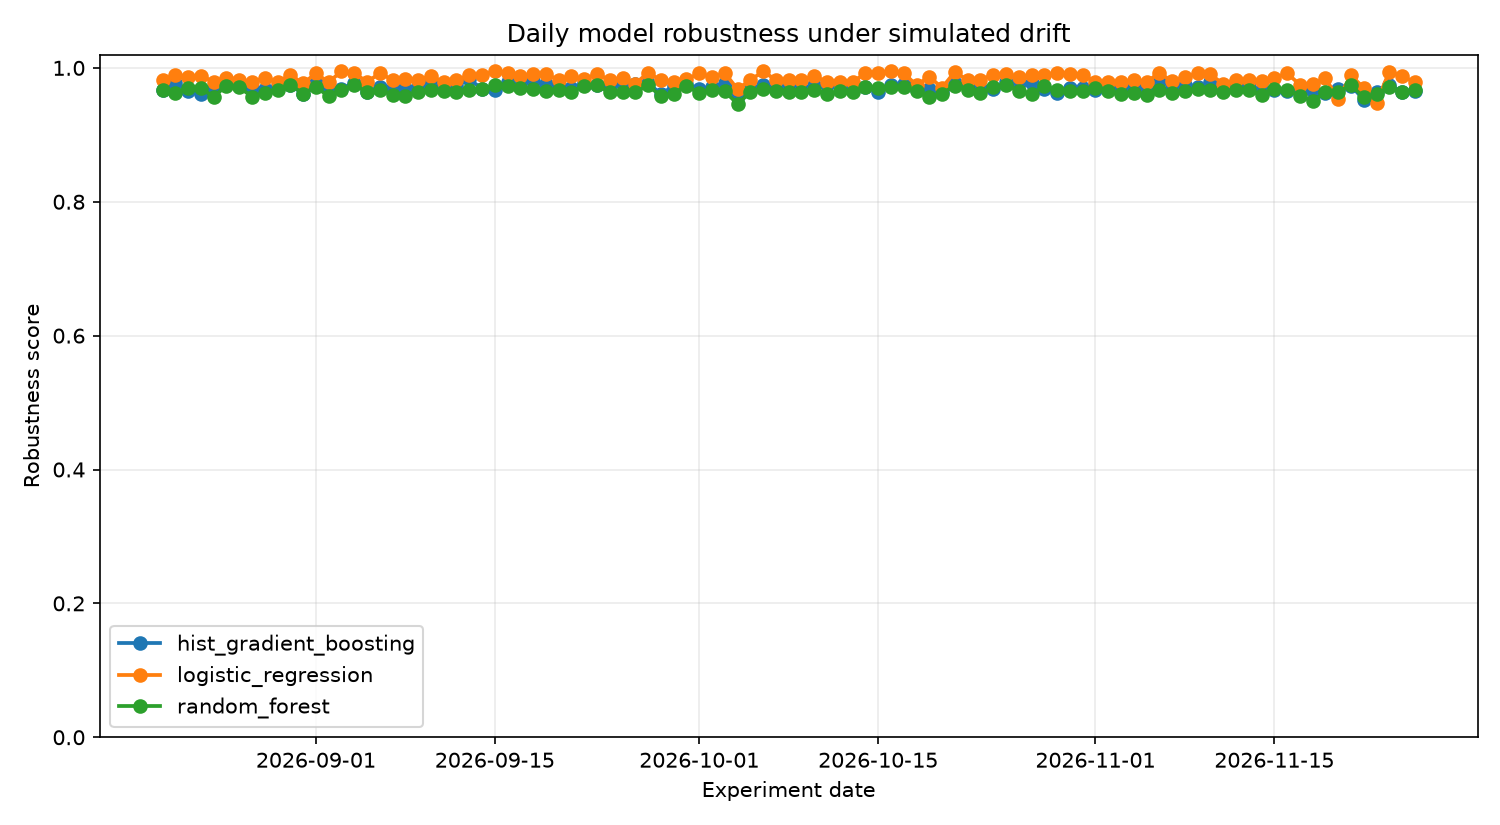
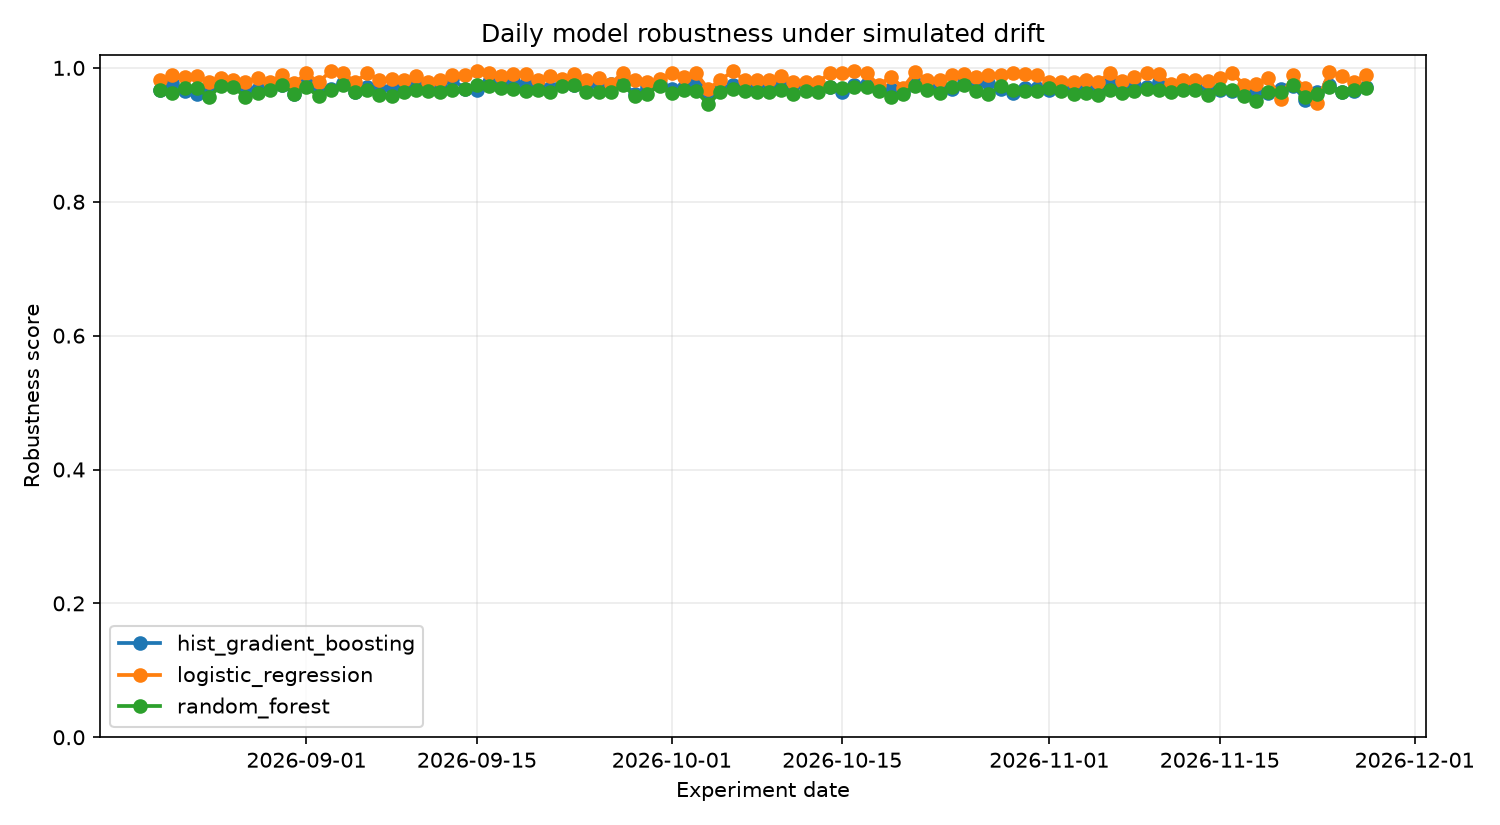
chore(observatory): daily drift benchmark 2026-11-27

diff --git a/reports/latest.md b/reports/latest.md
@@ -1,37 +1,37 @@
 # Latest DriftWatch Report
 
-**Experiment date:** 2026-11-26
+**Experiment date:** 2026-11-27
 
 ## Drift scenario
 
-- Drift strength: `0.418`
-- Scale factor: `1.042`
-- Noise ratio: `0.075`
-- Mask ratio: `0.020`
-- Affected features: mean smoothness, mean compactness, mean concavity, radius error, texture error, worst radius, worst compactness
+- Drift strength: `0.403`
+- Scale factor: `0.960`
+- Noise ratio: `0.073`
+- Mask ratio: `0.019`
+- Affected features: mean radius, mean compactness, perimeter error, smoothness error, worst area, worst smoothness, worst concave points
 
 ## Model ranking
 
 | Rank | Model | Robustness | ROC-AUC | F1 | Balanced Acc. | Log Loss | Brier |
 |---:|---|---:|---:|---:|---:|---:|---:|
-| 1 | `logistic_regression` | 0.9790 | 0.9969 | 0.9665 | 0.9642 | 0.0890 | 0.0257 |
-| 2 | `random_forest` | 0.9675 | 0.9927 | 0.9524 | 0.9439 | 0.1441 | 0.0405 |
-| 3 | `hist_gradient_boosting` | 0.9652 | 0.9926 | 0.9479 | 0.9360 | 0.1100 | 0.0337 |
+| 1 | `logistic_regression` | 0.9890 | 0.9977 | 0.9860 | 0.9797 | 0.0675 | 0.0180 |
+| 2 | `hist_gradient_boosting` | 0.9720 | 0.9905 | 0.9683 | 0.9453 | 0.1633 | 0.0381 |
+| 3 | `random_forest` | 0.9707 | 0.9943 | 0.9640 | 0.9375 | 0.1334 | 0.0372 |
 
 ## Highest feature drift (PSI)
 
 | Feature | PSI |
 |---|---:|
-| mean concavity | 1.5125 |
-| radius error | 0.4479 |
-| texture error | 0.3891 |
-| worst compactness | 0.3722 |
-| mean compactness | 0.3196 |
-| worst radius | 0.2558 |
-| mean smoothness | 0.1768 |
-| concave points error | 0.1427 |
+| worst area | 0.4111 |
+| perimeter error | 0.3308 |
+| worst concave points | 0.2817 |
+| mean radius | 0.2059 |
+| worst concavity | 0.1875 |
+| worst smoothness | 0.1784 |
+| smoothness error | 0.1739 |
+| texture error | 0.1735 |
 
-**Mean PSI:** `0.1674`  
-**Max PSI:** `1.5125`
+**Mean PSI:** `0.1237`  
+**Max PSI:** `0.4111`
 
 _Generated automatically by the DriftWatch daily observatory pipeline._
